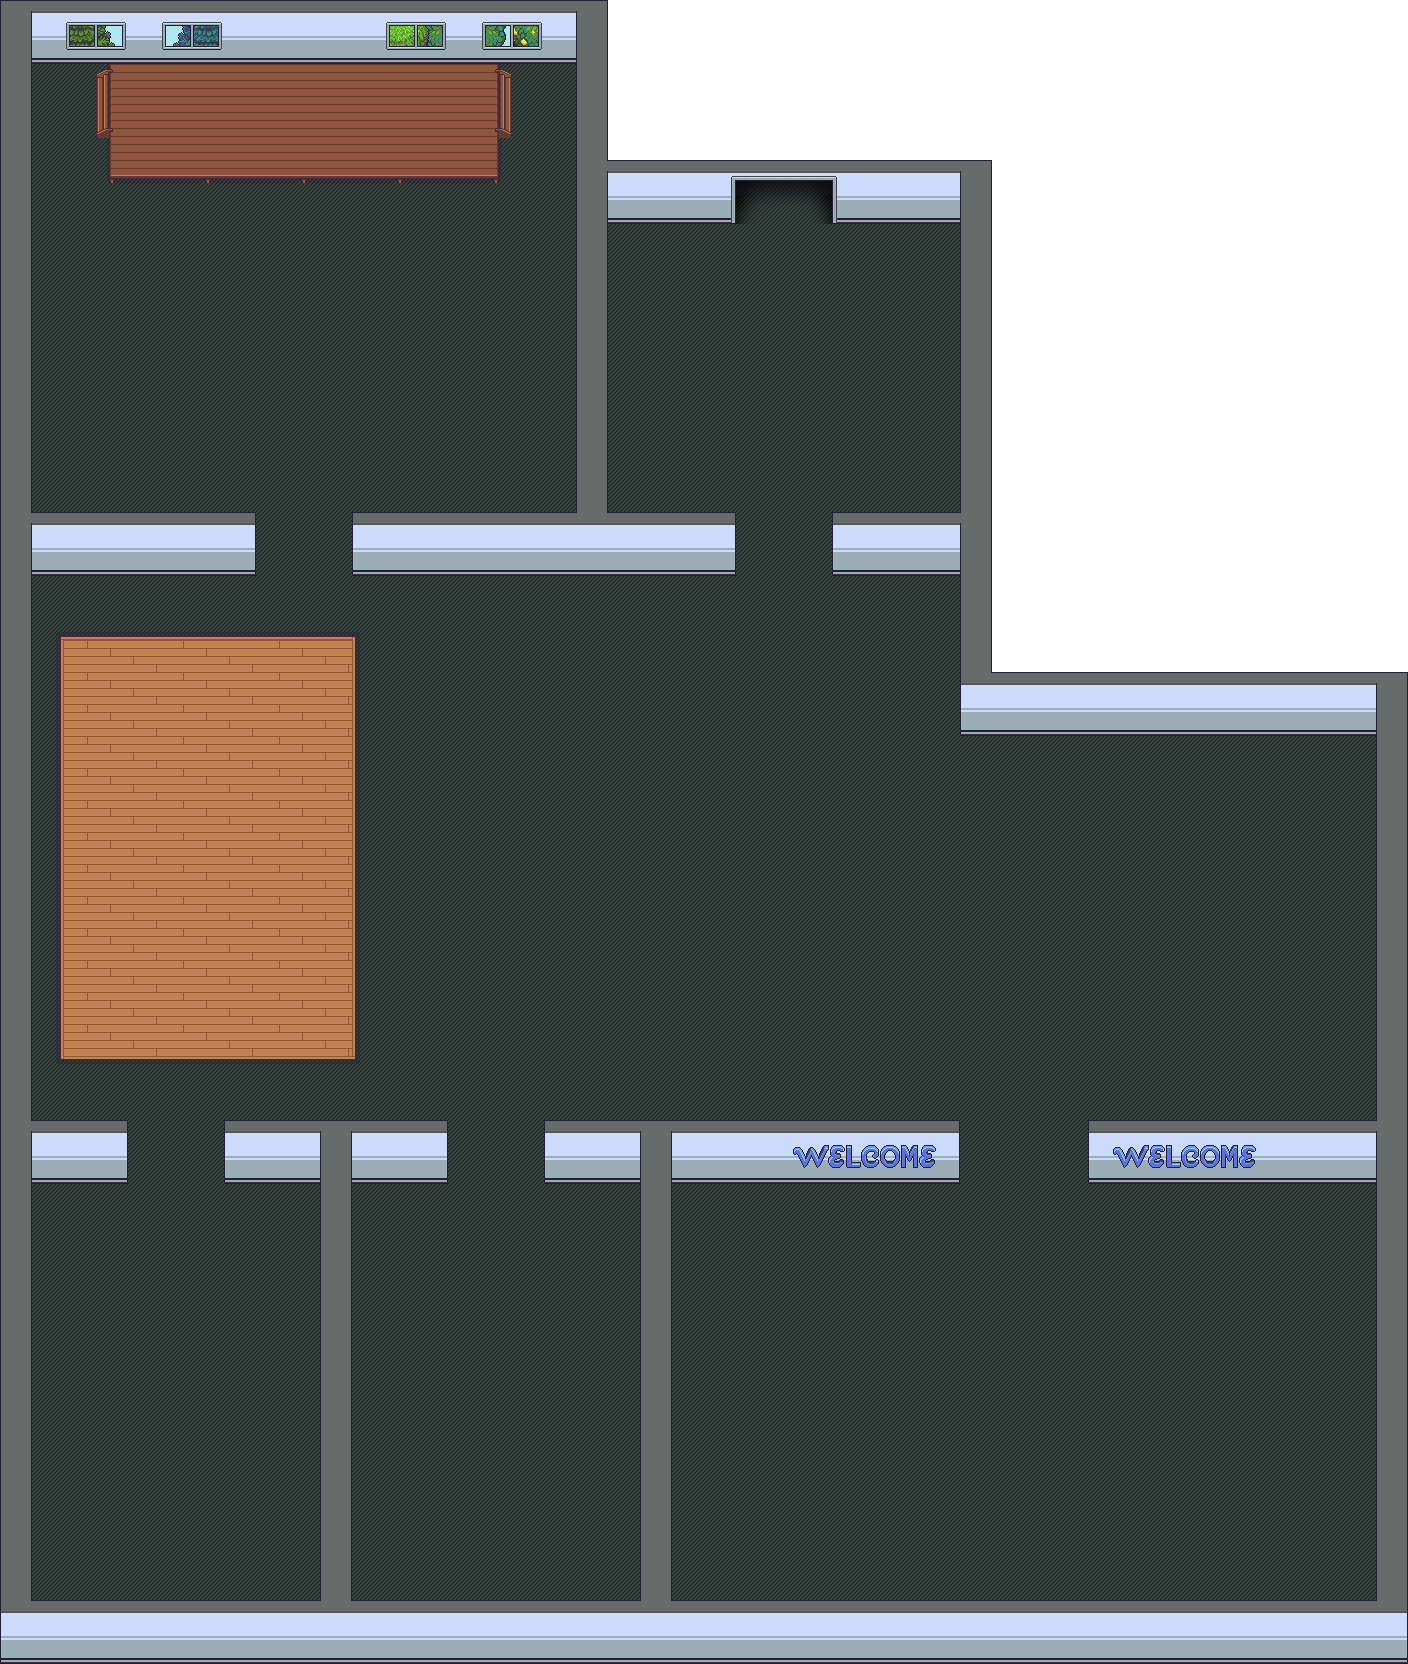
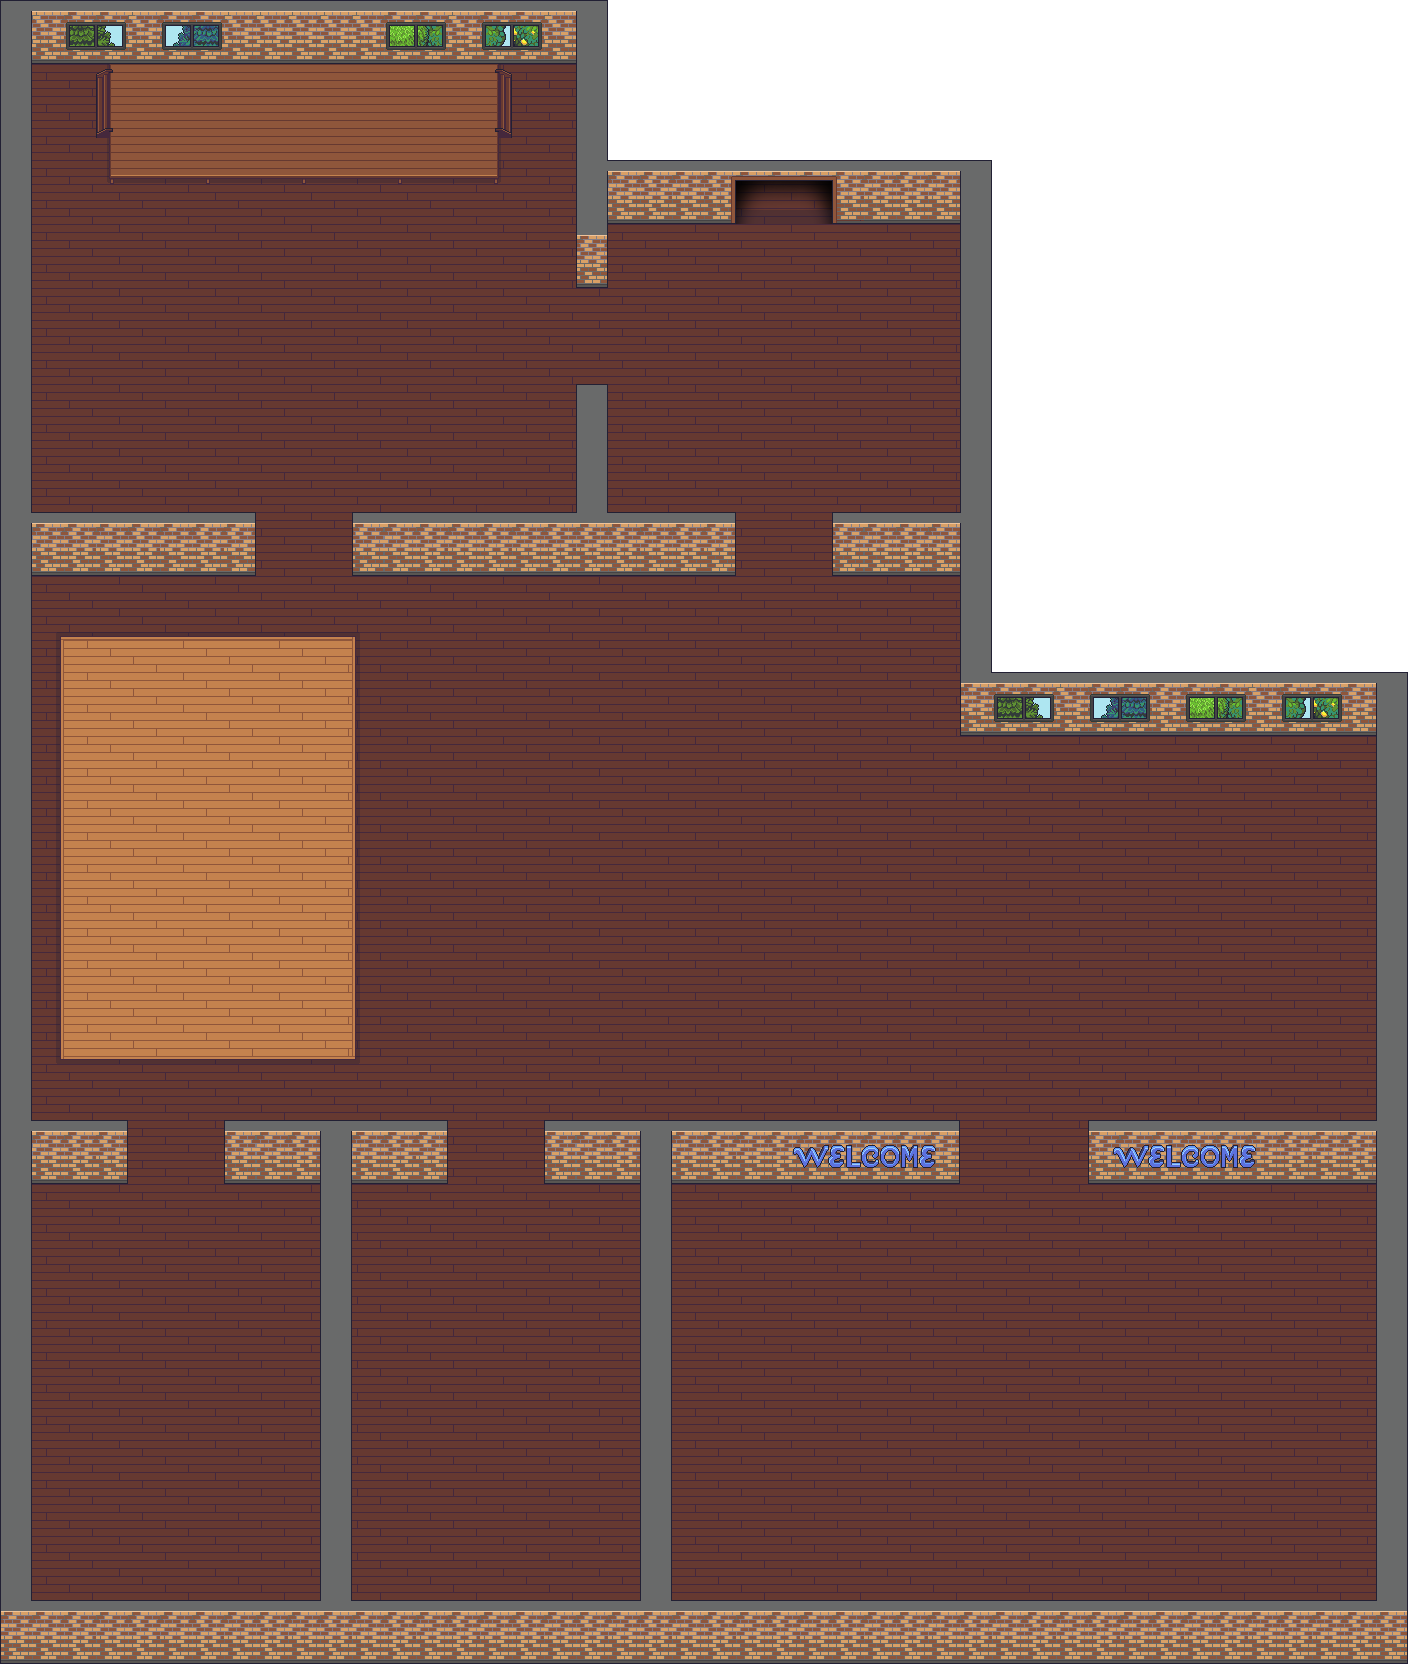
unfurnished office et alii

diff --git a/maps/template Botanica/Botanica.tsx b/maps/template Botanica/Botanica.tsx
@@ -1,0 +1,4 @@
+<?xml version="1.0" encoding="UTF-8"?>
+<tileset version="1.5" tiledversion="1.6.0" name="botanica tiles" tilewidth="32" tileheight="32" tilecount="182" columns="26">
+ <image source="../../objects/WIP/from zachary/botanical_garden.png" width="840" height="253"/>
+</tileset>
